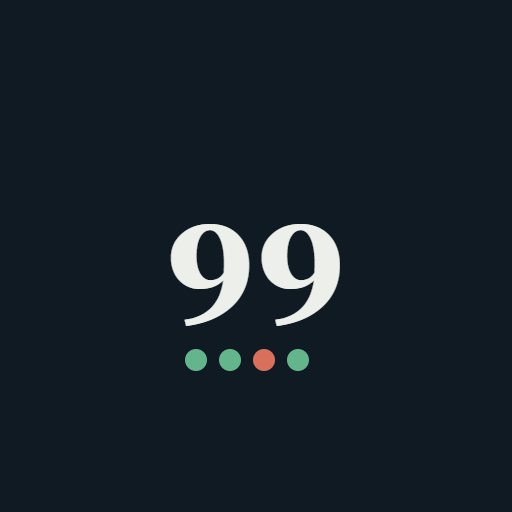
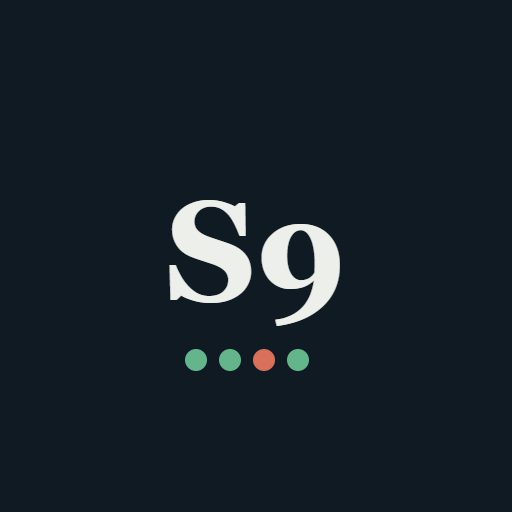
Rename app to Stayqs99
Updates the visible title, header, manifest, app icons (S9 mark), and
apple-mobile-web-app-title; bumps the service worker cache so existing
users don't keep serving the old assets.

Changed region(s): [[0.3125, 0.375, 0.5, 0.6562]]

diff --git a/index.html b/index.html
@@ -3,7 +3,7 @@
 <head>
 <meta charset="utf-8">
 <meta name="viewport" content="width=device-width, initial-scale=1, viewport-fit=cover">
-<title>99stayqs</title>
+<title>Stayqs99</title>
 <meta name="description" content="A self-contained staking cycle calculator and tracker.">
 <meta name="theme-color" content="#E3E6E0" media="(prefers-color-scheme: light)">
 <meta name="theme-color" content="#121A1E" media="(prefers-color-scheme: dark)">
@@ -13,7 +13,7 @@
 <link rel="apple-touch-icon" href="icons/icon-192.png">
 <meta name="apple-mobile-web-app-capable" content="yes">
 <meta name="apple-mobile-web-app-status-bar-style" content="black-translucent">
-<meta name="apple-mobile-web-app-title" content="99stayqs">
+<meta name="apple-mobile-web-app-title" content="Stayqs99">
 <link rel="preconnect" href="https://fonts.googleapis.com">
 <link rel="preconnect" href="https://fonts.gstatic.com" crossorigin>
 <link href="https://fonts.googleapis.com/css2?family=Archivo:wght@400;500;600;700&family=Fraunces:opsz,wght@9..144,400;9..144,600;9..144,800&display=swap" rel="stylesheet">
@@ -187,7 +187,7 @@ kbd{font:inherit;font-size:.85em;border:1px solid var(--rule-hard);border-bottom
 <div class="wrap">
 
   <header class="masthead">
-    <h1>99stayqs</h1>
+    <h1>Stayqs99</h1>
     <div class="spec" id="spec">10 events · 3 wins · 1.87</div>
   </header>
 

diff --git a/sw.js b/sw.js
@@ -1,5 +1,5 @@
 "use strict";
-var CACHE = "99stayqs-v5";
+var CACHE = "stayqs99-v6";
 var ASSETS = [
   "./",
   "./index.html",
